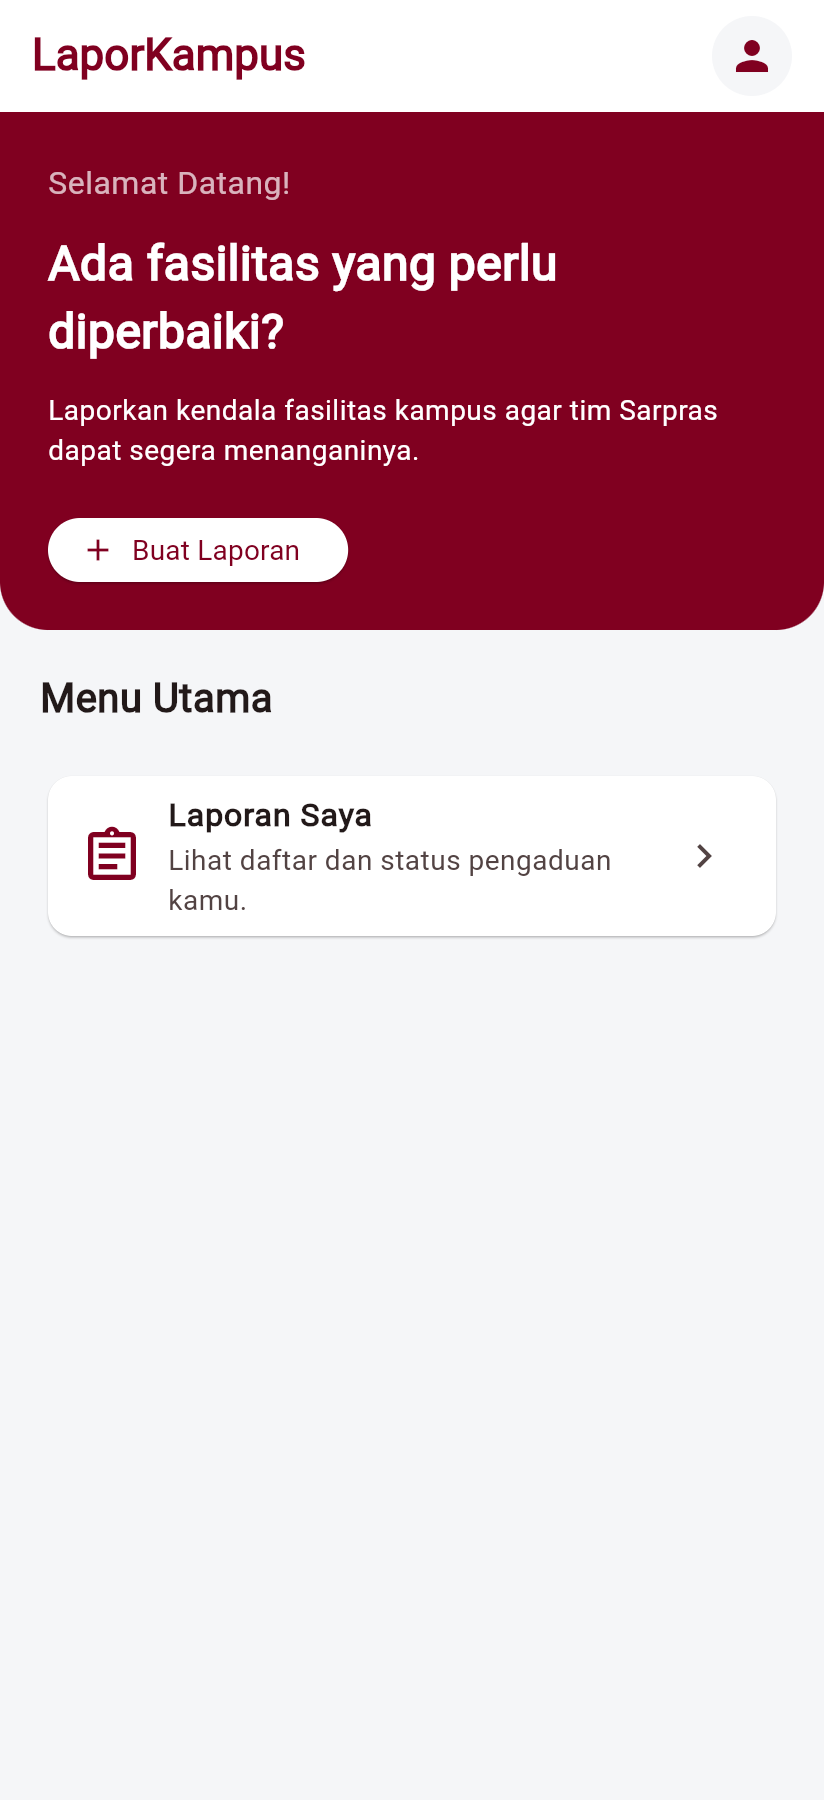
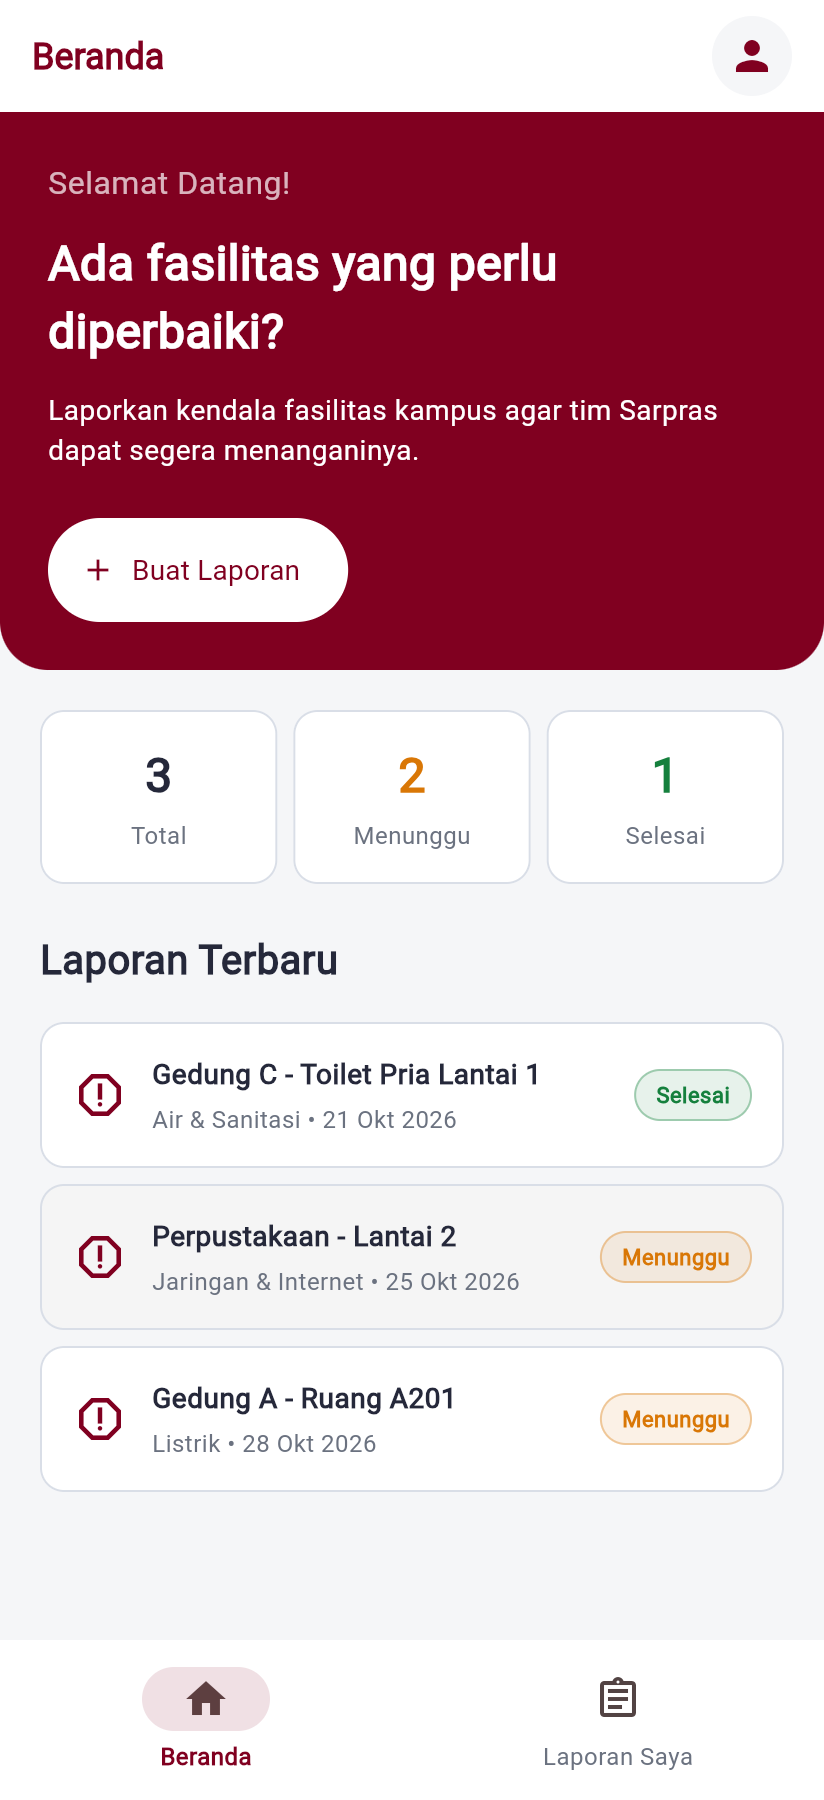
Perbarui README dengan screenshot dan aturan validasi Minggu 6-7

diff --git a/README.md b/README.md
@@ -23,20 +23,71 @@ Proyek individu MK Mobile and Web Application Development, Semester Ganjil 2026/
 
 | Halaman Login | Halaman Beranda |
 | --- | --- |
-| ![Halaman Login](docs/screenshot-login.png) | ![Halaman Beranda](docs/screenshot-beranda.png) |
+| ![Login](docs/screenshot-login.png) | ![Beranda](docs/screenshot-beranda.png) |
 
-## Fitur yang sudah ada
+| Form Laporan | Form Laporan — validasi |
+| --- | --- |
+| ![Form Laporan](docs/screenshot-form-laporan.png) | ![Validasi form](docs/screenshot-form-validasi.png) |
 
-| Halaman | Status | Keterangan |
-| --- | --- | --- |
-| Login | Selesai (UI) | Input NIM dan password, tombol lihat password, validasi kolom kosong |
-| Beranda | Selesai (UI) | Sapaan, tombol aksi utama "Buat Laporan", kartu menu "Laporan Saya" |
-| Form Laporan | Belum | Direncanakan pada pertemuan 6–7 |
-| Laporan Saya | Belum | Direncanakan pada pertemuan 6–7 |
-| Detail Laporan | Belum | Prioritas Should |
+| Laporan Saya | Keadaan kosong |
+| --- | --- |
+| ![Laporan Saya](docs/screenshot-laporan-saya.png) | ![Keadaan kosong](docs/screenshot-keadaan-kosong.png) |
 
-Login masih berupa simulasi: setiap NIM dan password yang tidak kosong akan masuk
-ke Beranda. Firebase Authentication belum dihubungkan pada tahap ini.
+| Detail Laporan |
+| --- |
+| ![Detail Laporan](docs/screenshot-detail-laporan.png) |
+
+## Halaman dan navigasi
+
+| Kode | Halaman | Prioritas | Keterangan |
+| --- | --- | --- | --- |
+| H1 | Login | Must | NIM dan password, validasi kolom kosong, di luar menu navigasi |
+| H2 | Beranda | Must | Sapaan, ringkasan status, tombol aksi utama, laporan terbaru |
+| H3 | Form Laporan | Must | Form 6 kolom dengan validasi, dibuka lewat `Navigator.push` |
+| H4 | Laporan Saya | Must | Daftar laporan + filter status, keadaan kosong |
+| H5 | Detail Laporan | Should | Rincian satu laporan, dibuka dari Beranda atau Laporan Saya |
+
+Navigasi utama memakai `NavigationBar` di ponsel dan berubah menjadi
+`NavigationRail` pada lebar layar ≥ 600 px. Menu yang sama dipakai di kedua
+ukuran: **Beranda** dan **Laporan Saya**.
+
+## Aturan validasi form
+
+| Kolom | Widget | Aturan | Pesan kesalahan |
+| --- | --- | --- | --- |
+| Lokasi fasilitas | `TextFormField` | Wajib; minimal 5 karakter | Lokasi fasilitas wajib diisi / Lokasi minimal 5 karakter |
+| Kategori kerusakan | `DropdownButtonFormField` | Wajib dipilih | Kategori wajib dipilih |
+| Tingkat urgensi | `DropdownButtonFormField` | Wajib dipilih | Tingkat urgensi wajib dipilih |
+| Tanggal kejadian | `TextFormField` + `showDatePicker` | Wajib; 30 hari terakhir s.d. hari ini | Tanggal wajib diisi |
+| Jumlah unit rusak | `TextFormField` angka | Wajib; angka; > 0; ≤ 50 | Jumlah unit tidak boleh nol / Maksimal 50 unit per laporan |
+| Deskripsi kerusakan | `TextFormField` multiline | Wajib; minimal 15 karakter | Deskripsi minimal 15 karakter |
+
+Hasil kirim ditampilkan lewat `SnackBar`: merah bila masih ada kolom yang salah,
+hijau bila laporan berhasil disimpan.
+
+## Struktur project
+
+```
+lib/
+  main.dart                     # akar aplikasi: tema dan halaman pertama
+  data/
+    data_laporan.dart           # model Laporan, data simulasi, helper format
+  pages/
+    login_page.dart             # H1 Login
+    halaman_utama.dart          # NavigationBar / NavigationRail
+    beranda_page.dart           # H2 Beranda
+    form_laporan_page.dart      # H3 Form Laporan
+    laporan_saya_page.dart      # H4 Laporan Saya
+    detail_laporan_page.dart    # H5 Detail Laporan
+  theme/
+    app_theme.dart              # palet, jarak, dan tema Material 3
+  widgets/
+    keadaan_kosong.dart         # komponen keadaan kosong yang dipakai ulang
+    label_status.dart           # chip status Menunggu / Diproses / Selesai
+test/
+  widget_test.dart              # 6 widget test
+docs/                           # screenshot untuk README
+```
 
 ## Cara menjalankan
 
@@ -61,34 +112,27 @@ flutter analyze   # memeriksa masalah kode
 flutter test      # menjalankan widget test
 ```
 
-## Struktur project
+## Catatan tentang data
 
-```
-lib/
-  main.dart            # tema aplikasi, LoginPage, BerandaPage
-test/
-  widget_test.dart     # pengujian validasi login dan navigasi ke Beranda
-docs/
-  screenshot-login.png
-  screenshot-beranda.png
-web/  android/  ios/    # pengaturan platform, jarang diubah
-pubspec.yaml           # dependensi dan metadata project
-```
+Data masih disimpan di `List<Laporan>` di memori (`lib/data/data_laporan.dart`).
+Laporan yang dikirim akan tampil di Beranda dan Laporan Saya selama aplikasi
+berjalan, lalu kembali ke data simulasi awal setelah aplikasi dimuat ulang.
+Pemindahan data ke Cloud Firestore dilakukan setelah UTS.
 
 ## Gaya visual
 
-Mengikuti style guide mini Minggu 4:
+Mengikuti style guide mini Minggu 4. Palet sengaja dibatasi lima warna:
 
-- Warna primer maroon `#800020`
-- Latar halaman `#F5F6F8`, teks utama `#25283A`
-- Radius sudut 10, tinggi tombol utama 52
-- Warna status: berhasil `#15803D`, menunggu `#D97706`, galat `#DC2626`
+- Primer maroon `#800020`
+- Latar `#F5F6F8`, teks utama `#25283A`, teks sekunder `#6B7280`, garis `#D9DEE7`
+- Status: menunggu `#D97706`, selesai `#15803D`, galat `#DC2626`
+- Jarak kelipatan 8 (8 / 16 / 24), radius 10–12, tombol utama tinggi 52
 
 ## Batasan project
 
 - Flutter + Dart, Firebase paket Spark (tanpa billing account)
 - Autentikasi email/password, bukan OTP telepon
-- Tanpa Cloud Functions dan payment gateway
+- Tanpa Cloud Functions, payment gateway, dan paket tambahan dari pub.dev
 - Satu peran pengguna: mahasiswa
 
 ## Riwayat pertemuan
@@ -100,3 +144,5 @@ Mengikuti style guide mini Minggu 4:
 | 3 | User flow, sitemap, prioritas halaman, rancangan navigasi |
 | 4 | Wireframe dan style guide mini di Figma |
 | 5 | Project Flutter berjalan, repository GitHub, README |
+| 6 | Lima halaman terhubung, NavigationBar, data simulasi, keadaan kosong |
+| 7 | Form Laporan dengan validasi, SnackBar status, dan state sederhana |
